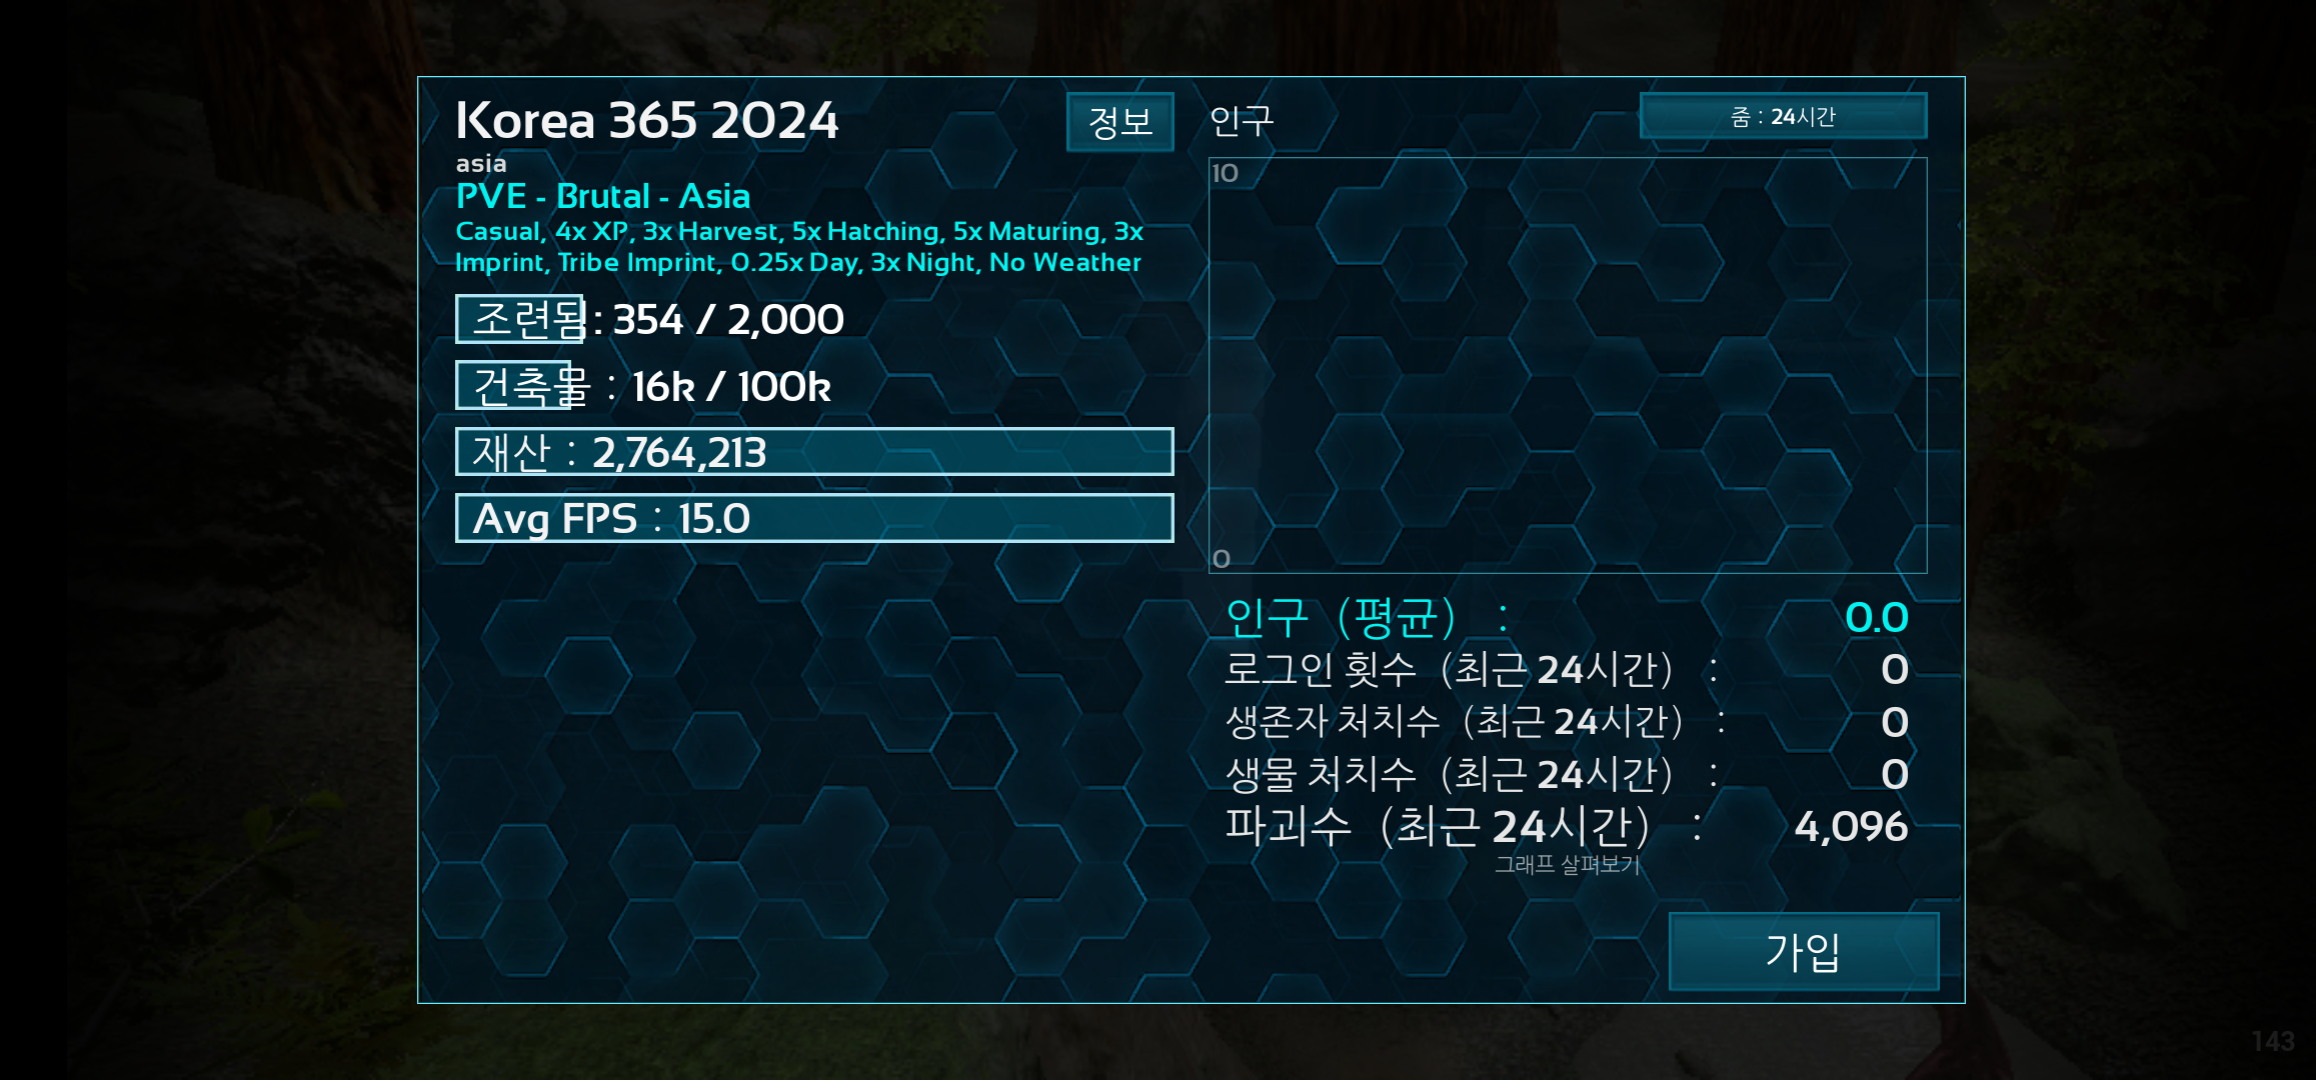
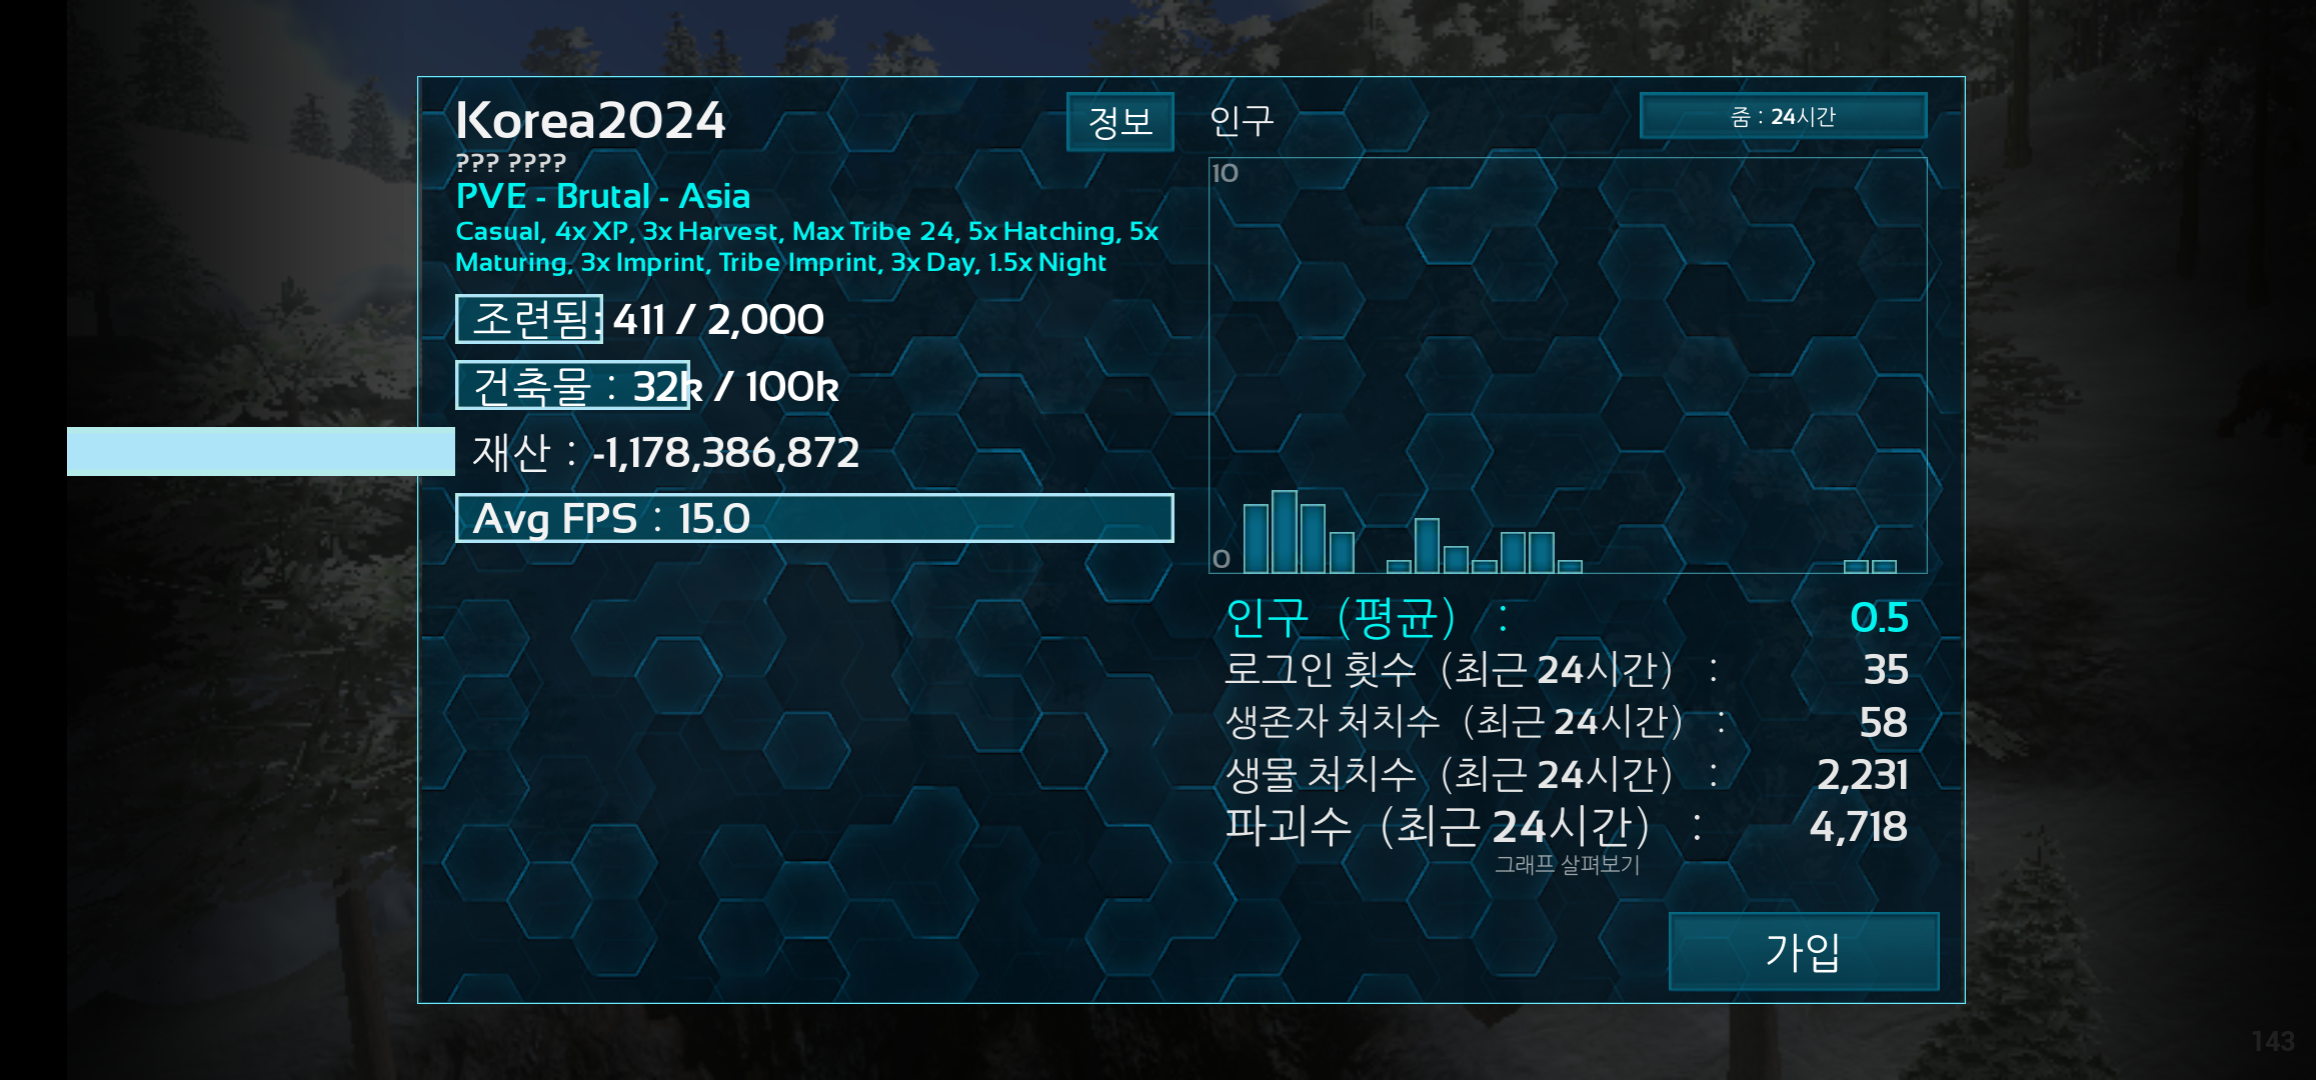
.

diff --git a/server/s2/s2.html b/server/s2/s2.html
@@ -21,7 +21,7 @@
 
     <div class="container">
         <section class="news">
-            <h2>korea 365 2024</h2>
+            <h2>korea 2024</h2>
             <img src="../serverimage/s2.png" alt="korea 365 2024서버 이미지" width="300" height="150">
             <article id="server-info">
                 <h3>서버 인원: 20 <br> 
